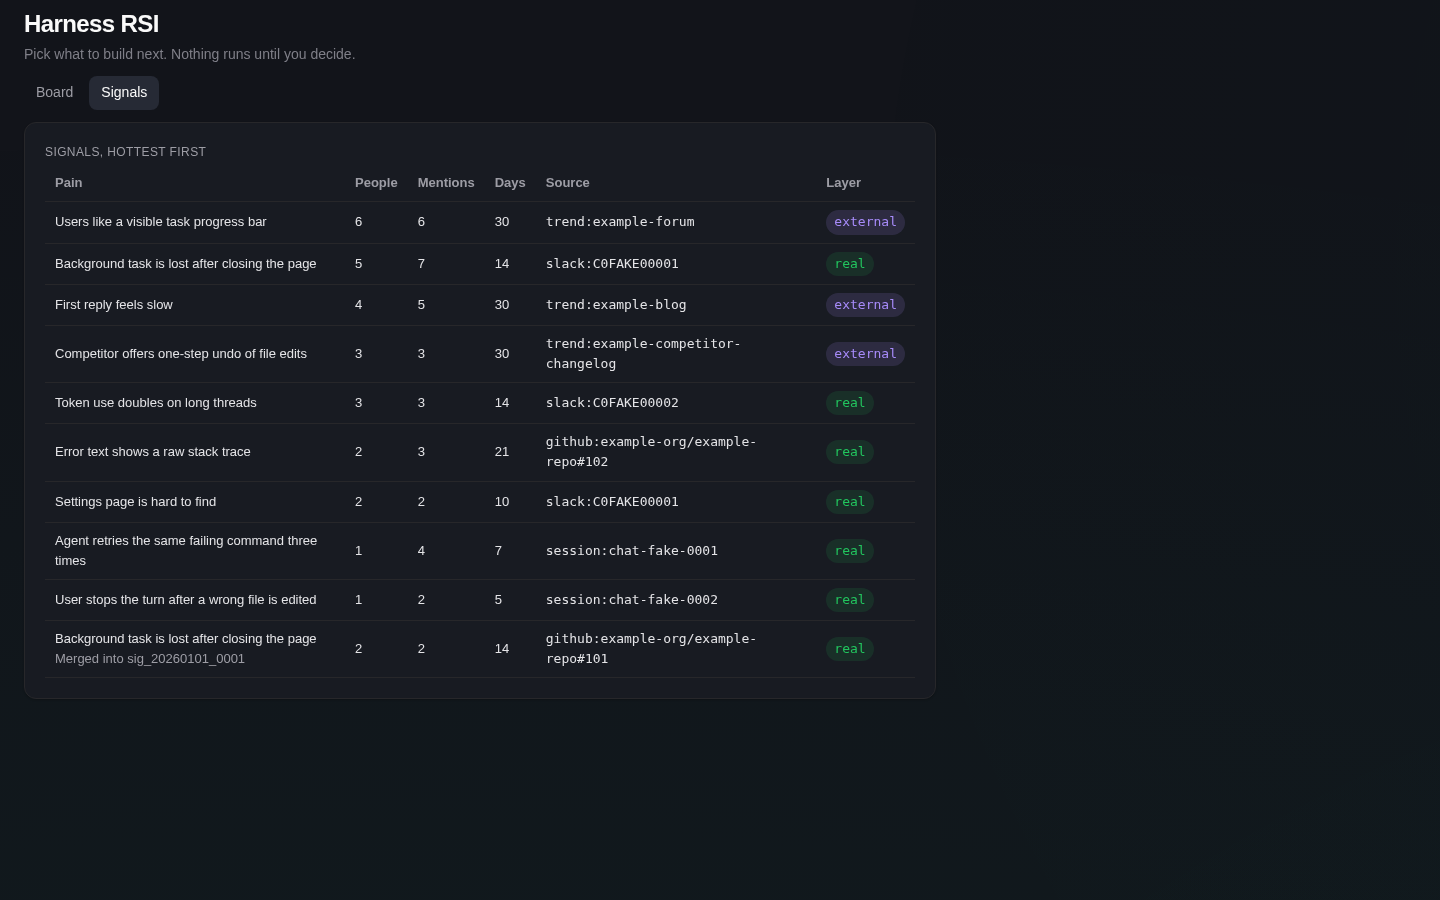
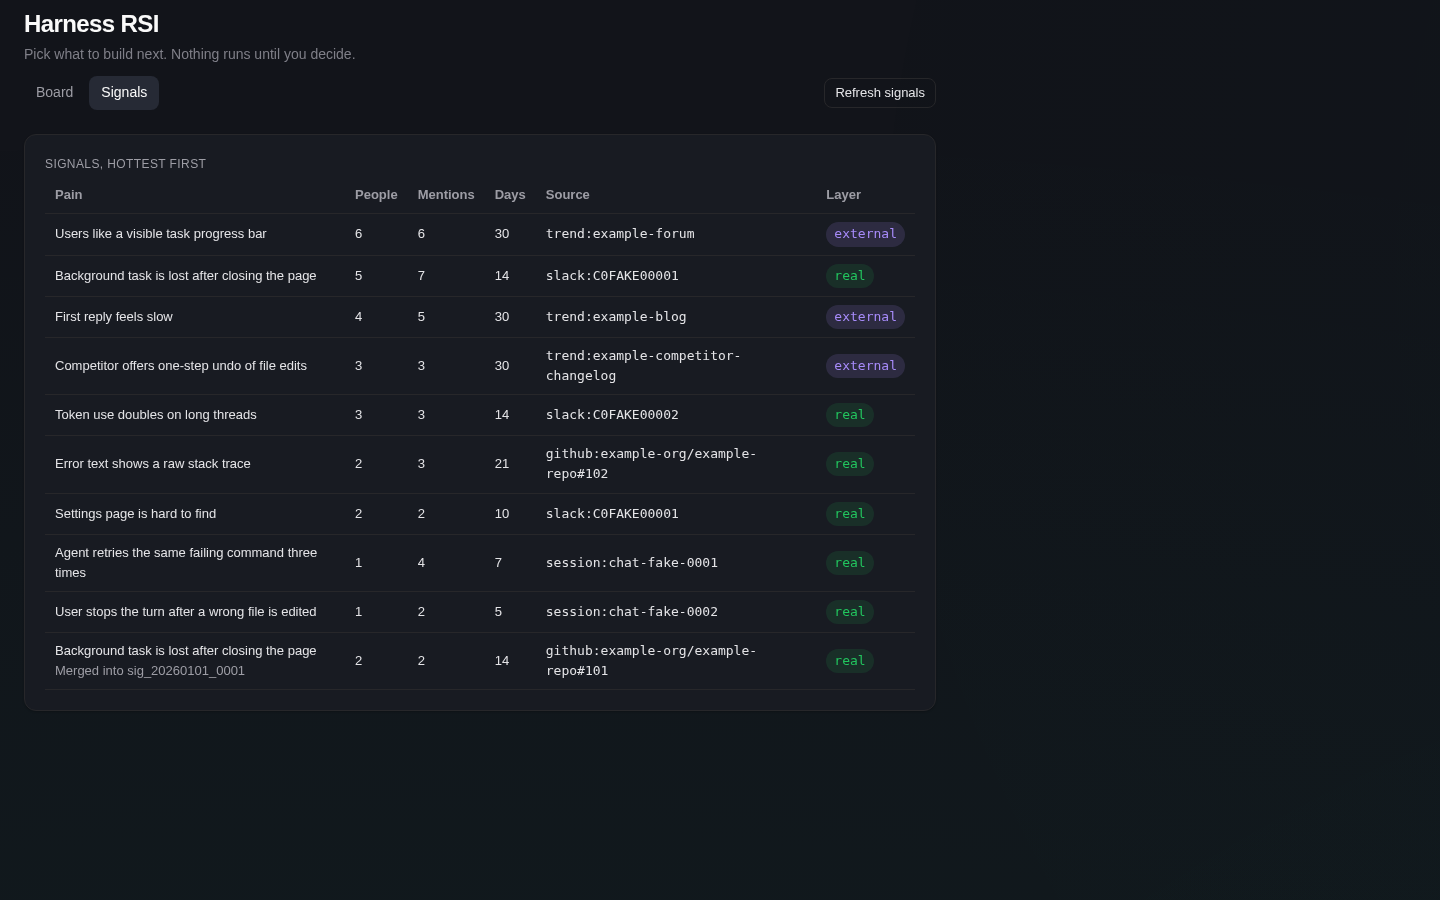
feat: refresh signals and read the board from the backend
POST /refresh takes the Slack Radar export rows the page fetched (the page
holds that grant), runs python -m adapters.github_issues, and merges both
into signals.jsonl: one item (first link) is one row refreshed in place, an
id another item holds is swapped for a free one, and a primary whose pain
matches an earlier primary joins it. Owner-only; a failed source is
reported, the other still merges.

The page reads GET /proposals and /signals, posts each choice to
/decisions, and has a Refresh signals button. fake-data.mjs now serves only
the tests and the screenshot harness.

diff --git a/tests/backend/test_backend.py b/tests/backend/test_backend.py
@@ -1,6 +1,7 @@
-"""Backend routes on fake data: schema-valid reads, decision append, nothing on import."""
+"""Backend routes on fake data: schema-valid reads, decision append, refresh merge, nothing on import."""
 
 import asyncio
+import copy
 import json
 import pathlib
 import sys
@@ -82,6 +83,38 @@ def test_decision_refusals_write_nothing(data, req, status):
     assert not (data / "decisions.jsonl").exists()
 
 
+def row(sid, source, link, pain, dedup_of=None, people=1):
+    return {"id": sid, "source": source, "links": [f"https://example.com/{link}"], "pain": pain,
+            "mentions": {"count": people, "people": people, "window_days": 1}, "layer": "real",
+            "testable": {"ok": False, "task": None}, "dedup_of": dedup_of}
+
+
+def test_refresh_merges_and_dedups_stubbed_sources(data, monkeypatch):
+    slack = [row("sig_20260101_0001", "slack:C0FAKE00003", "s/1", "Brand new pain", people=3),
+             row("sig_20260101_0002", "slack:C0FAKE00003", "s/2", "brand new pain!", "sig_20260101_0001"),
+             row("sig_20260101_0099", "github:x/y", "s/3", "not from slack"), {"id": "junk"}]
+    fresh = copy.deepcopy(SIGNALS[6])
+    fresh["mentions"]["count"] = 9  # the same issue again, with a new count
+    github = [fresh, row("sig_20260101_0050", "github:example-org/example-repo", "g/50", "Brand New Pain")]
+    monkeypatch.setattr(routes, "github_rows", lambda: (github, ""))
+    status, doc = call(routes._refresh, Req({"slack": slack}))
+    assert status == 200 and doc["errors"] == [] and doc["added"] == 3
+    rows = [json.loads(x) for x in (data / "signals.jsonl").read_text().splitlines()]
+    assert all(store.valid("signal", r) for r in rows) and len({r["id"] for r in rows}) == len(rows) == 13
+    by_link = {r["links"][0]: r for r in rows}
+    head = by_link["https://example.com/s/1"]
+    assert head["id"] not in {r["id"] for r in SIGNALS} and head["dedup_of"] is None  # clashing id replaced
+    assert by_link["https://example.com/s/2"]["dedup_of"] == head["id"]
+    assert by_link["https://example.com/g/50"]["dedup_of"] == head["id"]  # same pain across sources
+    assert by_link[SIGNALS[6]["links"][0]]["mentions"]["count"] == 9 and by_link[SIGNALS[6]["links"][0]]["id"] == SIGNALS[6]["id"]
+    assert call(routes._refresh, Req({"slack": slack}))[1]["added"] == 0  # a second refresh adds nothing
+
+
+def test_refresh_needs_owner_and_a_body(data):
+    assert call(routes._refresh, Req({"slack": []}, internal_auth=True))[0] == 403
+    assert call(routes._refresh, Req({"slack": "x"}))[0] == 400
+
+
 def test_disabled_app_registers_nothing(tmp_path, monkeypatch):
     monkeypatch.setenv("HARNESS_RSI_DATA", str(tmp_path / "d"))
     m = json.loads((ROOT / "app.json").read_text())
@@ -91,5 +124,5 @@ def test_disabled_app_registers_nothing(tmp_path, monkeypatch):
     fake.AppRoute = lambda **kw: kw
     monkeypatch.setitem(sys.modules, "kiro_crew.apps.route_registry", fake)
     got = [(r["method"], r["path"]) for r in routes.register_routes(None)]
-    assert got == [("GET", "/signals"), ("GET", "/proposals"), ("POST", "/decisions")]
+    assert got == [("GET", "/signals"), ("GET", "/proposals"), ("POST", "/decisions"), ("POST", "/refresh")]
     assert not (tmp_path / "d").exists()

diff --git a/backend/routes.py b/backend/routes.py
@@ -1,16 +1,24 @@
-"""Harness RSI HTTP API under ``/api/apps/harness-rsi``: two reads and one owner-only write.
+"""Harness RSI HTTP API under ``/api/apps/harness-rsi``: two reads, two owner-only writes.
 
+``POST /refresh`` takes the Slack Radar export rows the page fetched from
+``GET /api/apps/slack-radar/signals`` (the page holds that grant, the backend holds no
+token), runs ``python -m adapters.github_issues``, and merges both into signals.jsonl.
 Nothing here runs on its own: no startup hook, no loop, no timer.
 """
 
 import asyncio
+import json
+import subprocess
+import sys
 
 from aiohttp import web
 
 from . import store
 
 APP_NAME = "harness-rsi"
-MAX_BODY = 64 * 1024
+MAX_BODY = 2 * 1024 * 1024
+GITHUB_TIMEOUT_S = 120
+_REFRESH = asyncio.Lock()
 
 
 def _err(status, code, message):
@@ -41,6 +49,17 @@ async def _body(request):
     return body if isinstance(body, dict) else None
 
 
+def github_rows():
+    """Signal rows from the GitHub adapter, or ``([], error)``."""
+    try:
+        r = subprocess.run([sys.executable, "-m", "adapters.github_issues"], cwd=store.ROOT,
+                           capture_output=True, text=True, timeout=GITHUB_TIMEOUT_S)
+        rows = json.loads(r.stdout) if r.returncode == 0 else None
+    except (OSError, subprocess.TimeoutExpired, ValueError) as exc:
+        return [], f"github: {type(exc).__name__}"
+    return (rows, "") if isinstance(rows, list) else ([], f"github: adapter exit {r.returncode}")
+
+
 async def _signals(request, ctx):
     rows = await asyncio.to_thread(store.read_signals)
     return web.json_response({"ok": True, "signals": store.by_heat(rows)})
@@ -64,6 +83,23 @@ async def _decide(request, ctx):
     return web.json_response({"ok": True, "appended": appended})
 
 
+async def _refresh(request, ctx):
+    if not _owner(request):
+        return _err(403, "owner_only", "only the dashboard owner can refresh")
+    body = await _body(request)
+    slack = body.get("slack") if body else None
+    if not isinstance(slack, list):
+        return _err(400, "bad_body", "body must be {\"slack\": [signal rows]}")
+    slack = [r for r in slack if isinstance(r, dict) and str(r.get("source", "")).startswith("slack:")]
+    async with _REFRESH:
+        github, error = await asyncio.to_thread(github_rows)
+        before = await asyncio.to_thread(store.read_signals)
+        rows = store.merge(before, [slack, github])
+        await asyncio.to_thread(store.write_signals, rows)
+    return web.json_response({"ok": True, "total": len(rows), "added": len(rows) - len(before),
+                              "errors": [error] if error else []})
+
+
 def register_routes(ctx):
     """Named by ``backend.hooks.routes``; the host calls it only for an enabled app."""
     from kiro_crew.apps.route_registry import AppRoute
@@ -72,4 +108,5 @@ def register_routes(ctx):
         AppRoute(method="GET", path="/signals", handler=_signals),
         AppRoute(method="GET", path="/proposals", handler=_proposals),
         AppRoute(method="POST", path="/decisions", handler=_decide),
+        AppRoute(method="POST", path="/refresh", handler=_refresh),
     ]

diff --git a/backend/store.py b/backend/store.py
@@ -1,4 +1,4 @@
-"""The shared data dir: schema-checked reads and the decision append.
+"""The shared data dir: schema-checked reads, the decision append and the signal merge.
 
 Under ``$HARNESS_RSI_DATA`` (default ``~/.kiro/crew/harness-rsi-data``): ``signals.jsonl``,
 ``proposals.json`` (a list), ``decisions.jsonl`` (append-only ``{proposal_id, decision, ts}``).
@@ -8,6 +8,8 @@ A missing dir or file reads as an empty list; a row that fails its schema is lef
 import functools
 import json
 import os
+import re
+import tempfile
 import threading
 import time
 from pathlib import Path
@@ -17,6 +19,7 @@ from jsonschema import Draft202012Validator
 ROOT = Path(__file__).resolve().parents[1]
 DECISIONS = ("do", "skip", "later")
 _LOCK = threading.Lock()
+_WORD_RE = re.compile(r"[\W_]+")
 
 
 def data_dir():
@@ -84,3 +87,45 @@ def append_decision(proposal_id, decision, now=time.time):
             fh.write(json.dumps({"proposal_id": proposal_id, "decision": decision, "ts": ts}) + "\n")
         return True
 
+
+def _free_id(sid, taken):
+    return next((c for c in (f"sig_{sid[4:12]}_{n:04d}" for n in range(1, 10000)) if c not in taken), None)
+
+
+def merge(existing, batches):
+    """One item (first link) is one row, refreshed in place; an id another item holds is
+    swapped for a free one; a primary whose pain matches an earlier primary joins it."""
+    rows = [dict(r) for r in existing]
+    at = {r["links"][0]: i for i, r in enumerate(rows)}
+    for batch in batches:
+        batch, taken, remap = [r for r in batch if valid("signal", r)], {r["id"] for r in rows}, {}
+        for r in batch:
+            i = at.get(r["links"][0])
+            remap[r["id"]] = rows[i]["id"] if i is not None else r["id"] if r["id"] not in taken else _free_id(r["id"], taken)
+            taken.add(remap[r["id"]])
+        for r in (r for r in batch if remap[r["id"]]):
+            r = {**r, "id": remap[r["id"]], "dedup_of": remap.get(r["dedup_of"], r["dedup_of"])}
+            i = at.setdefault(r["links"][0], len(rows))
+            rows[i:i + 1] = [r]
+    first, ids = {}, {r["id"]: r for r in rows}
+    for r in rows:
+        key = _WORD_RE.sub(" ", r["pain"].casefold()).strip()
+        if not r["dedup_of"] and first.setdefault(key, r["id"]) != r["id"]:
+            r["dedup_of"] = first[key]
+    for r in rows:  # a row merged into a merged row points at the root
+        for _ in rows:
+            if not (r["dedup_of"] in ids and ids[r["dedup_of"]]["dedup_of"]):
+                break
+            r["dedup_of"] = ids[r["dedup_of"]]["dedup_of"]
+        if r["dedup_of"] == r["id"]:
+            r["dedup_of"] = None
+    return rows
+
+
+def write_signals(rows):
+    path = data_dir() / "signals.jsonl"
+    path.parent.mkdir(parents=True, exist_ok=True)
+    fd, tmp = tempfile.mkstemp(dir=path.parent, prefix=".signals.")
+    with os.fdopen(fd, "w", encoding="utf-8") as fh:
+        fh.writelines(json.dumps(r, ensure_ascii=False) + "\n" for r in rows)
+    os.replace(tmp, path)

diff --git a/tests/ui/test_ui.py b/tests/ui/test_ui.py
@@ -10,7 +10,9 @@ ROOT = Path(__file__).resolve().parents[2]
 FAKES = {
     ("react", "."): "export const createElement = (type, props, ...c) => ({ type, key: props?.key,"
     " props: { ...(props || {}), children: c.length === 1 ? c[0] : c } })\n"
-    "export const useState = (v) => [v, () => {}]\nexport const useEffect = () => {}\n",
+    "export const useState = (v) => [v, () => {}]\nexport const useEffect = () => {}\n"
+    "export const useCallback = (f) => f, useMemo = (f) => f()\n",
+    ("@kirocrew/app-sdk", "."): "export const useAppApi = () => null\n",
     ("@kirocrew/app-sdk", "./ui"): "import { createElement as h } from 'react'\n"
     "const pass = (tag) => ({ children, primary, variant, ...rest }) => h(tag, rest, children)\n"
     "export const Card = pass('div'), Btn = pass('button'), Badge = pass('span')\n"
@@ -48,9 +50,11 @@ def test_board_renders_every_proposal_and_writes_decisions(tmp_path):
     assert node, "node is required (it ships on the CI runner)"
     for (name, sub), body in FAKES.items():
         pkg = tmp_path / "node_modules" / name
-        pkg.mkdir(parents=True)
-        (pkg / "index.mjs").write_text(body, encoding="utf-8")
-        (pkg / "package.json").write_text(json.dumps({"type": "module", "exports": {sub: "./index.mjs"}}))
+        pkg.mkdir(parents=True, exist_ok=True)
+        file = "index.mjs" if sub == "." else f"{sub[2:]}.mjs"
+        (pkg / file).write_text(body, encoding="utf-8")
+        exports = {s: ("./index.mjs" if s == "." else f"./{s[2:]}.mjs") for (n, s) in FAKES if n == name}
+        (pkg / "package.json").write_text(json.dumps({"type": "module", "exports": exports}))
     shutil.copytree(ROOT / "ui", tmp_path / "ui", ignore=shutil.ignore_patterns("screenshots"))
     shutil.copytree(ROOT / "fixtures", tmp_path / "fixtures")
     shutil.copy(Path(__file__).with_name("board_check.mjs"), tmp_path)
